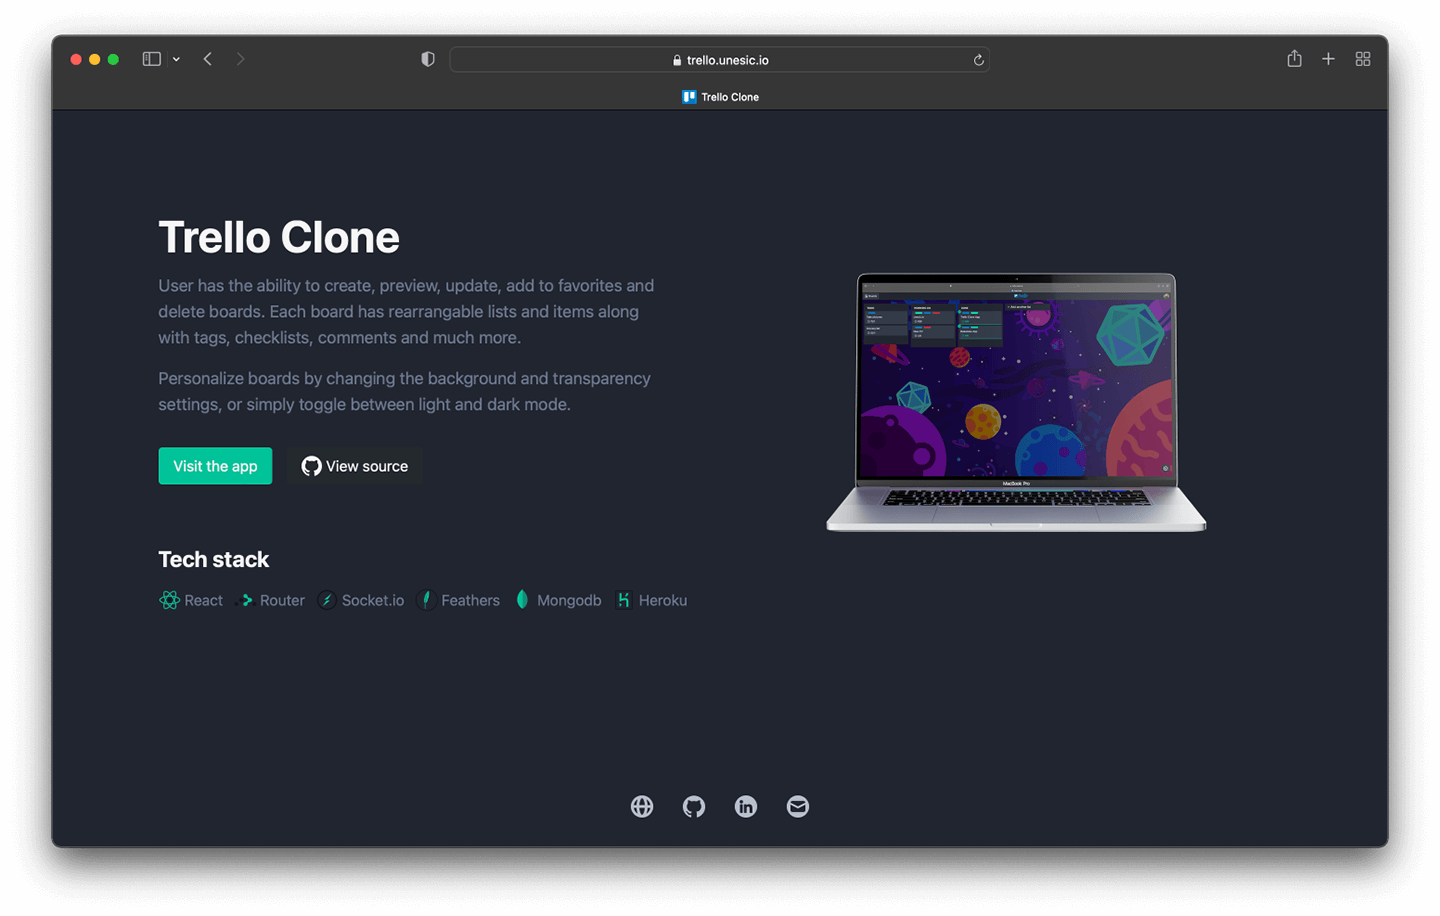
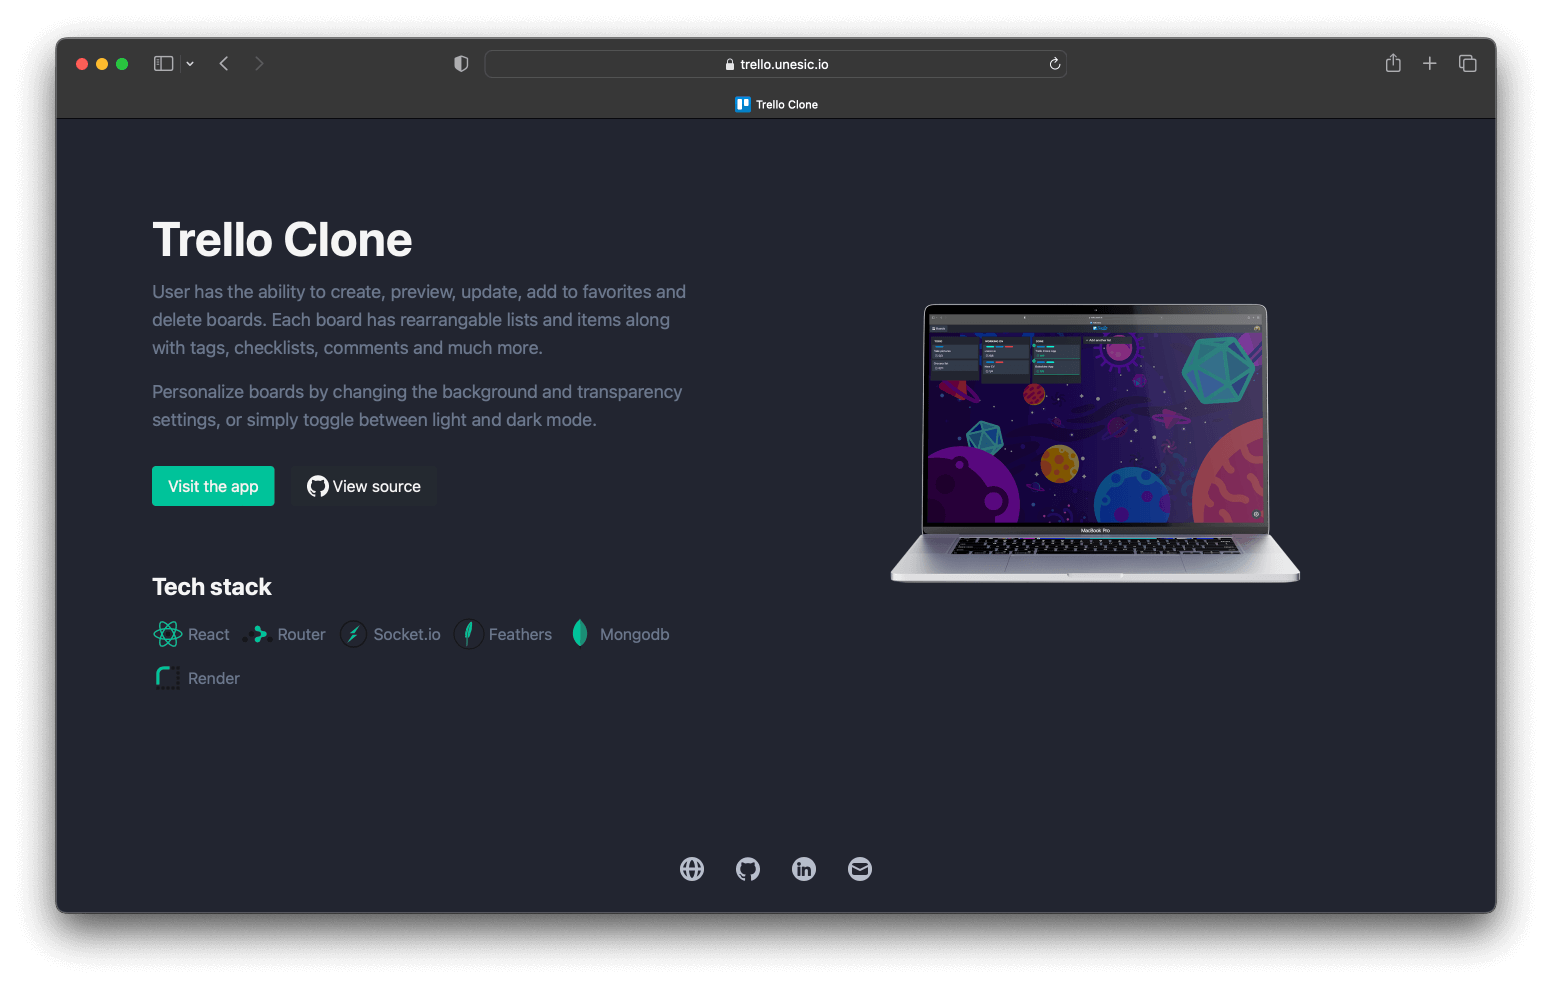
update project screenshots

diff --git a/src/components/home/Projects.tsx b/src/components/home/Projects.tsx
@@ -40,13 +40,6 @@ export const Projects = React.forwardRef<HTMLDivElement, ProjectsProps>(
 					<Heading variant="h3" as="h3">
 						{_t.head}
 					</Heading>
-					<Text
-						mt="4"
-						mx={["auto", "auto", "auto", "0"]}
-						maxW={["24rem", "24rem", "24rem", "50%", "50%"]}
-					>
-						{_t.copy}
-					</Text>
 				</Box>
 
 				{_t.projects.map((project, idx) => (
